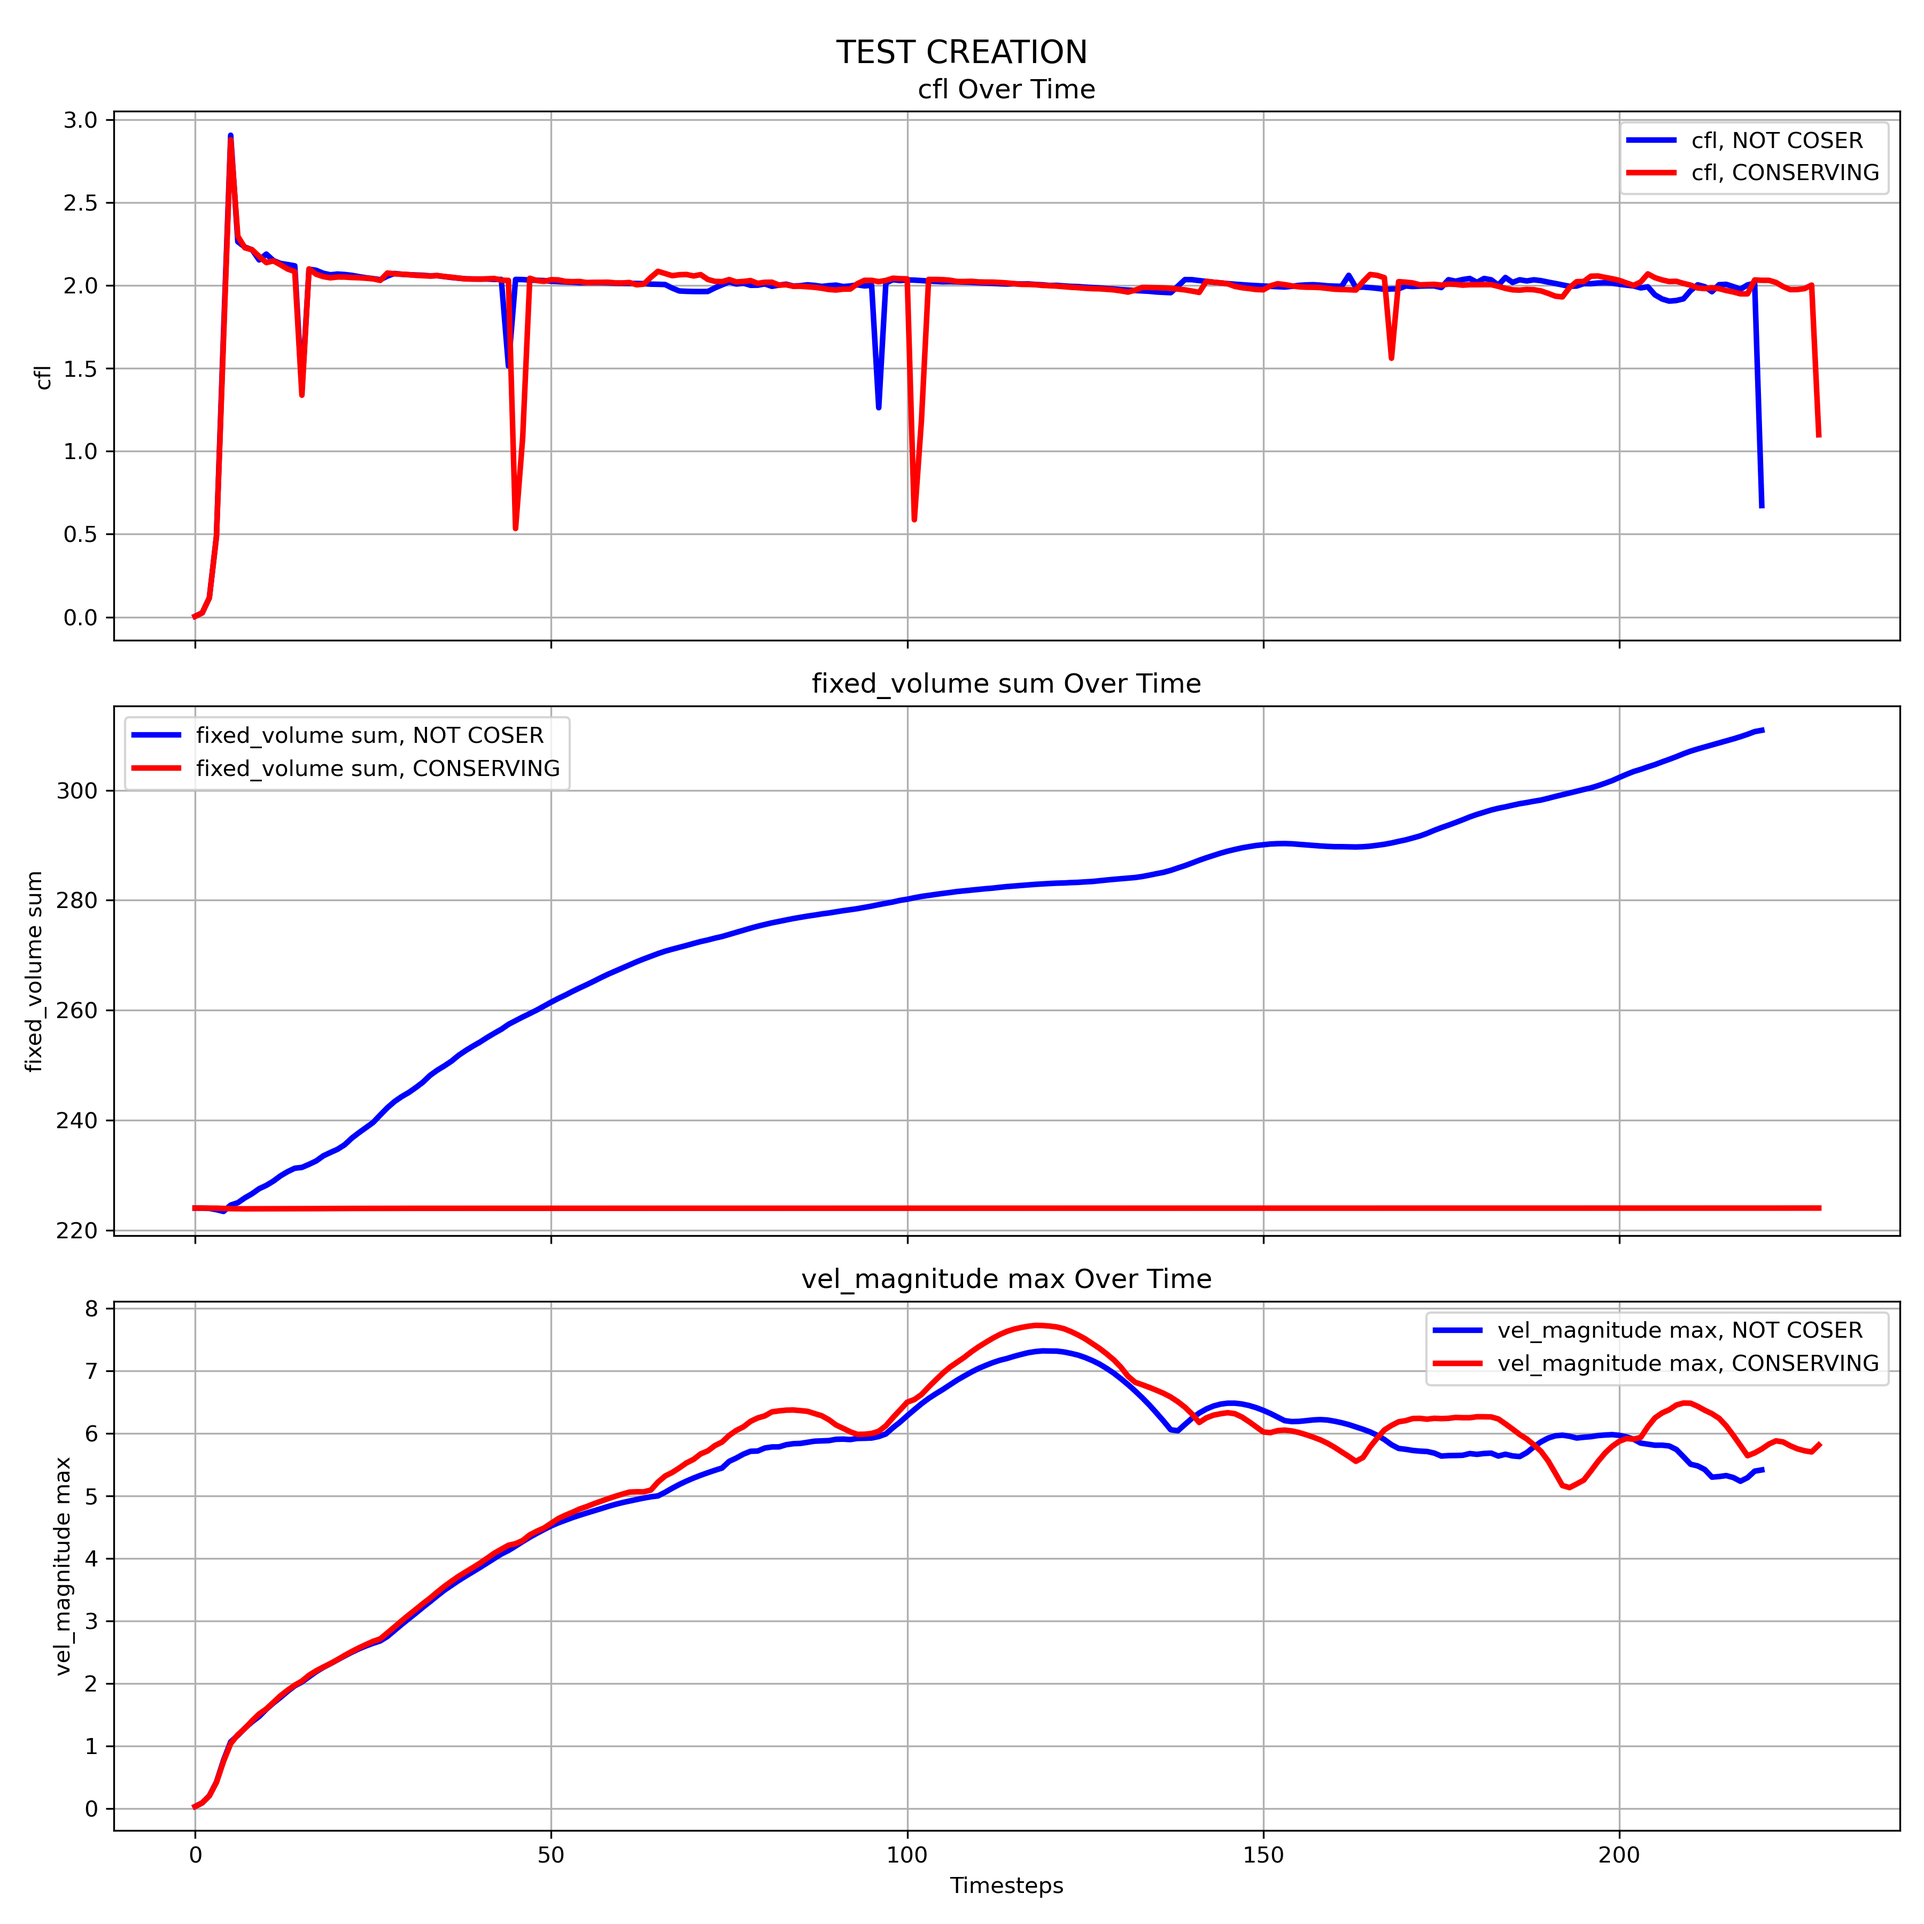
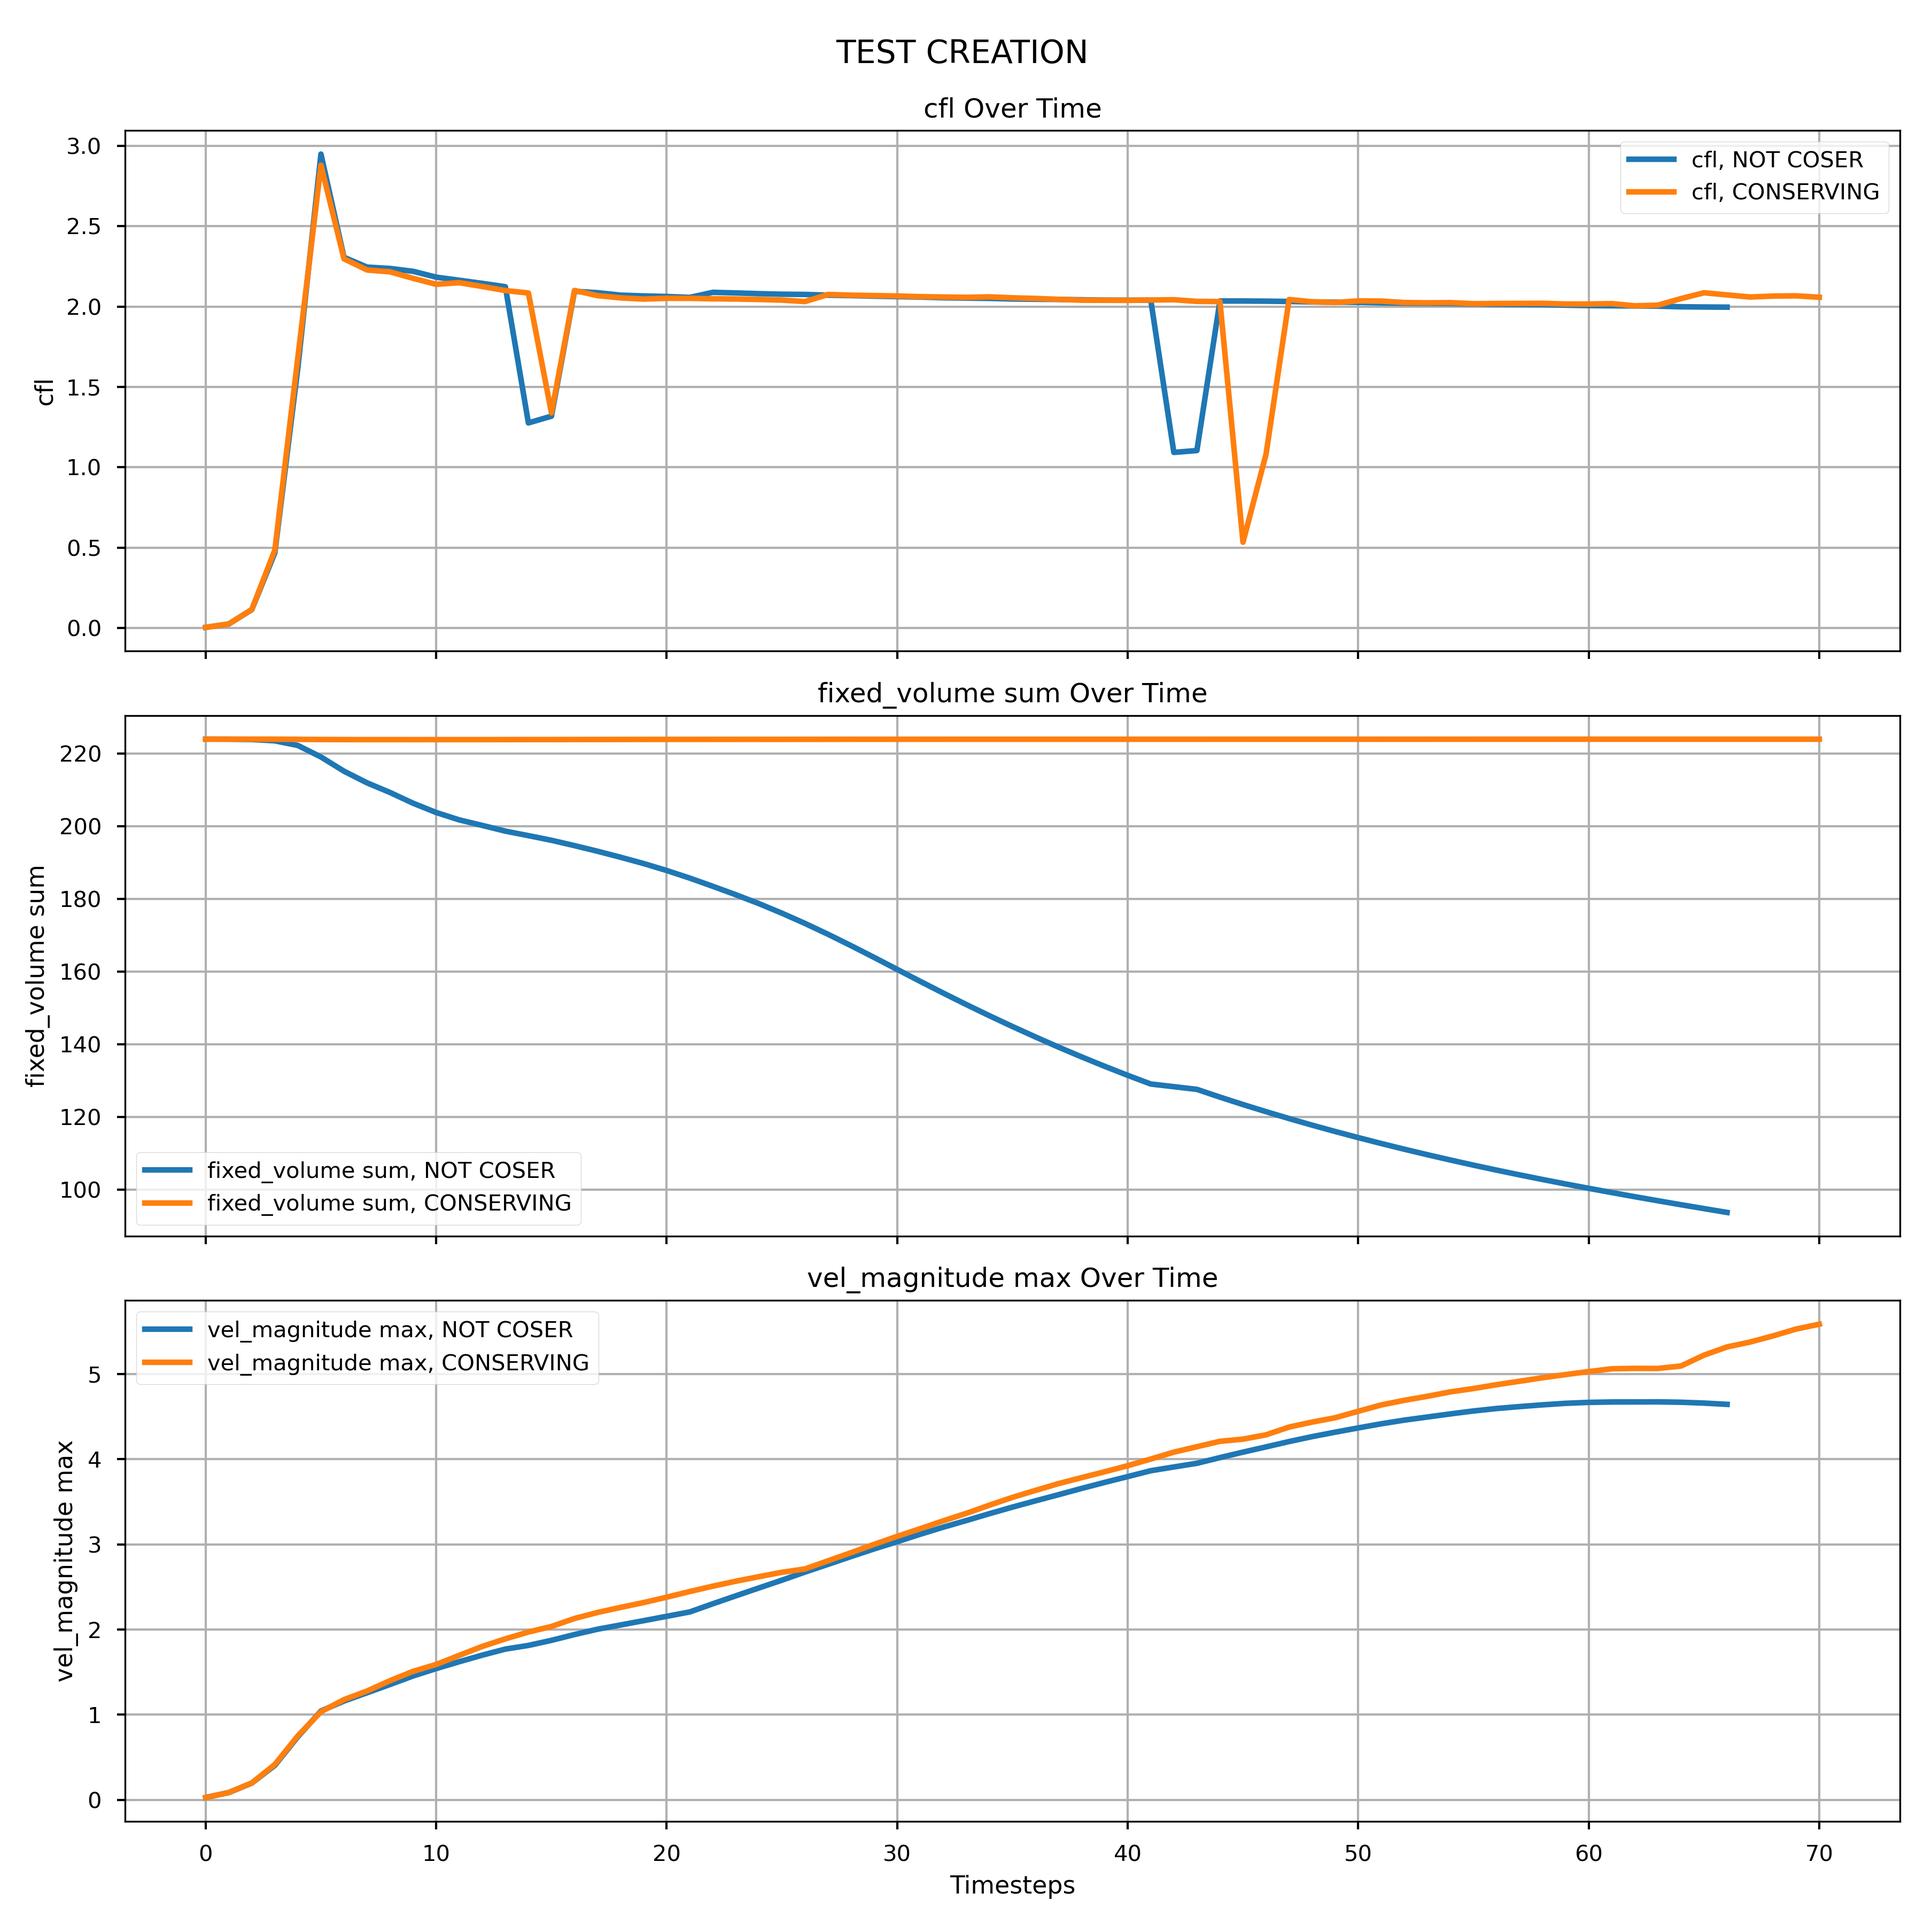
graph style adjustments

diff --git a/scenes/graph_creation.py b/scenes/graph_creation.py
@@ -71,6 +71,10 @@ def create_combined_graph(data_array, data_names, interested_fields, title, incl
         
         frames_sets.append(field_frames)
 
+    #plt.style.use("seaborn-v0_8-deep")
+    plt.style.use("seaborn-v0_8-notebook")
+    #plt.style.use("default")
+
     amount = len(interested_fields) + (1 if include_cfl else 0) + (1 if include_dt else 0)
     fig, ax = plt.subplots(amount, 1, figsize=(12, 4 * amount), sharex=True)
     ax = np.atleast_1d(ax)
@@ -88,7 +92,7 @@ def create_combined_graph(data_array, data_names, interested_fields, title, incl
             median = np.median(frames)
 
             data_name = f", {data_names[i]}" if data_names[i] != "" else ""
-            ax[current_ax].plot(frames, linestyle='-', linewidth=2.5, color=COLOR_THEMES[i]["main"], label=f'{key}{data_name}', zorder=2)
+            ax[current_ax].plot(frames, linewidth=2.5, label=f'{key}{data_name}', zorder=2)
             if include_extra_stats:
                 ax[current_ax].axhline(mean, color=COLOR_THEMES[i]["mean"], linestyle='--', linewidth=1.2, label=f'Mean{data_name}: {mean:.2f}', zorder=1)
                 ax[current_ax].axhline(median, color=COLOR_THEMES[i]["median"], linestyle='--', linewidth=1.2, label=f'Median{data_name}: {median:.2f}', zorder=1)

diff --git a/scenes/mass_momentum_conserving.py b/scenes/mass_momentum_conserving.py
@@ -4,13 +4,13 @@ from data_collection import *
 import json
 import os
 
-EXPORTS_BASE_DIR = "../exports/simple_plume_obstacle_2d_low/"
-
 params = {}
 param_path = "../scenes/test_cases/test_tests/mass_momentum_conserving_test.json"
+EXPORTS_BASE_DIR = "../exports/test/"
 
 if len(sys.argv) > 1:
     param_path = sys.argv[1]
+    EXPORTS_BASE_DIR = "../exports/simple_plume_obstacle_2d_low/"
 
 with open(param_path) as f:
 	params = json.load(f)

diff --git a/scenes/mmc_fixed_velocity_field.py b/scenes/mmc_fixed_velocity_field.py
@@ -3,13 +3,14 @@ from data_collection import *
 import json
 import sys
 
-EXPORTS_BASE_DIR = "../exports/fixed_vel_zalesak_rotation/"
 
 params = {}
 param_path = "../scenes/test_cases/test_tests/fixed_velocity_test.json"
+EXPORTS_BASE_DIR = "../exports/test/"
 
 if len(sys.argv) > 1:
     param_path = sys.argv[1]
+    EXPORTS_BASE_DIR = "../exports/fixed_vel_zalesak_rotation/"
 
 with open(param_path) as f:
 	params = json.load(f)
